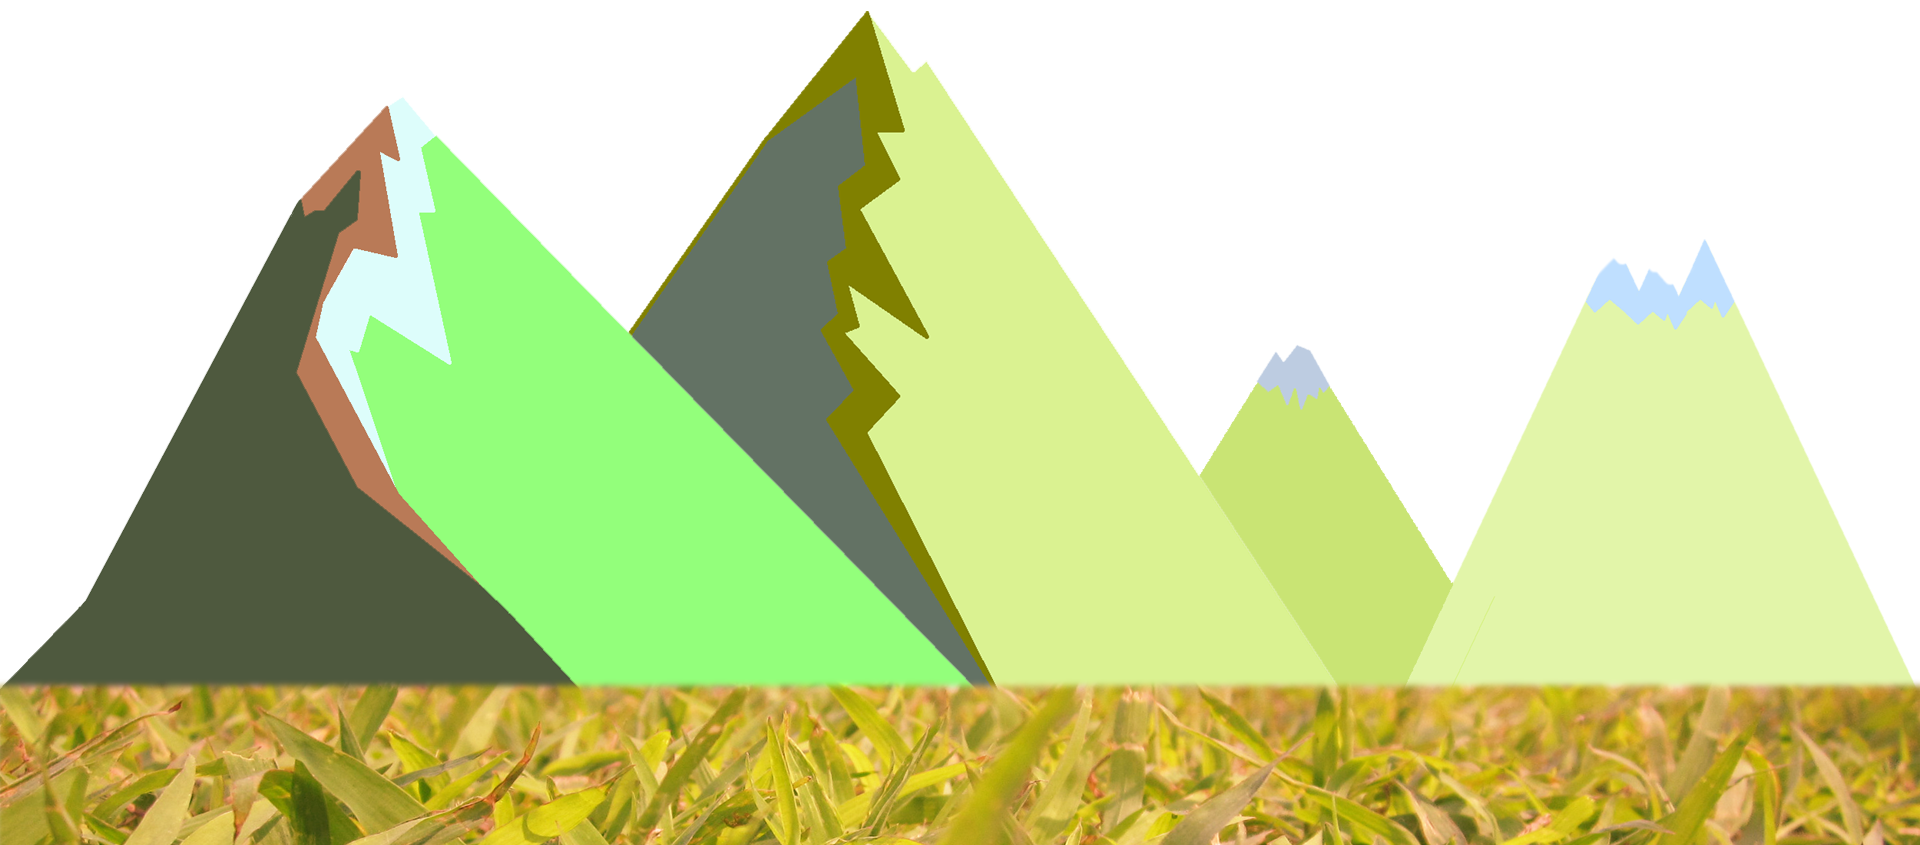
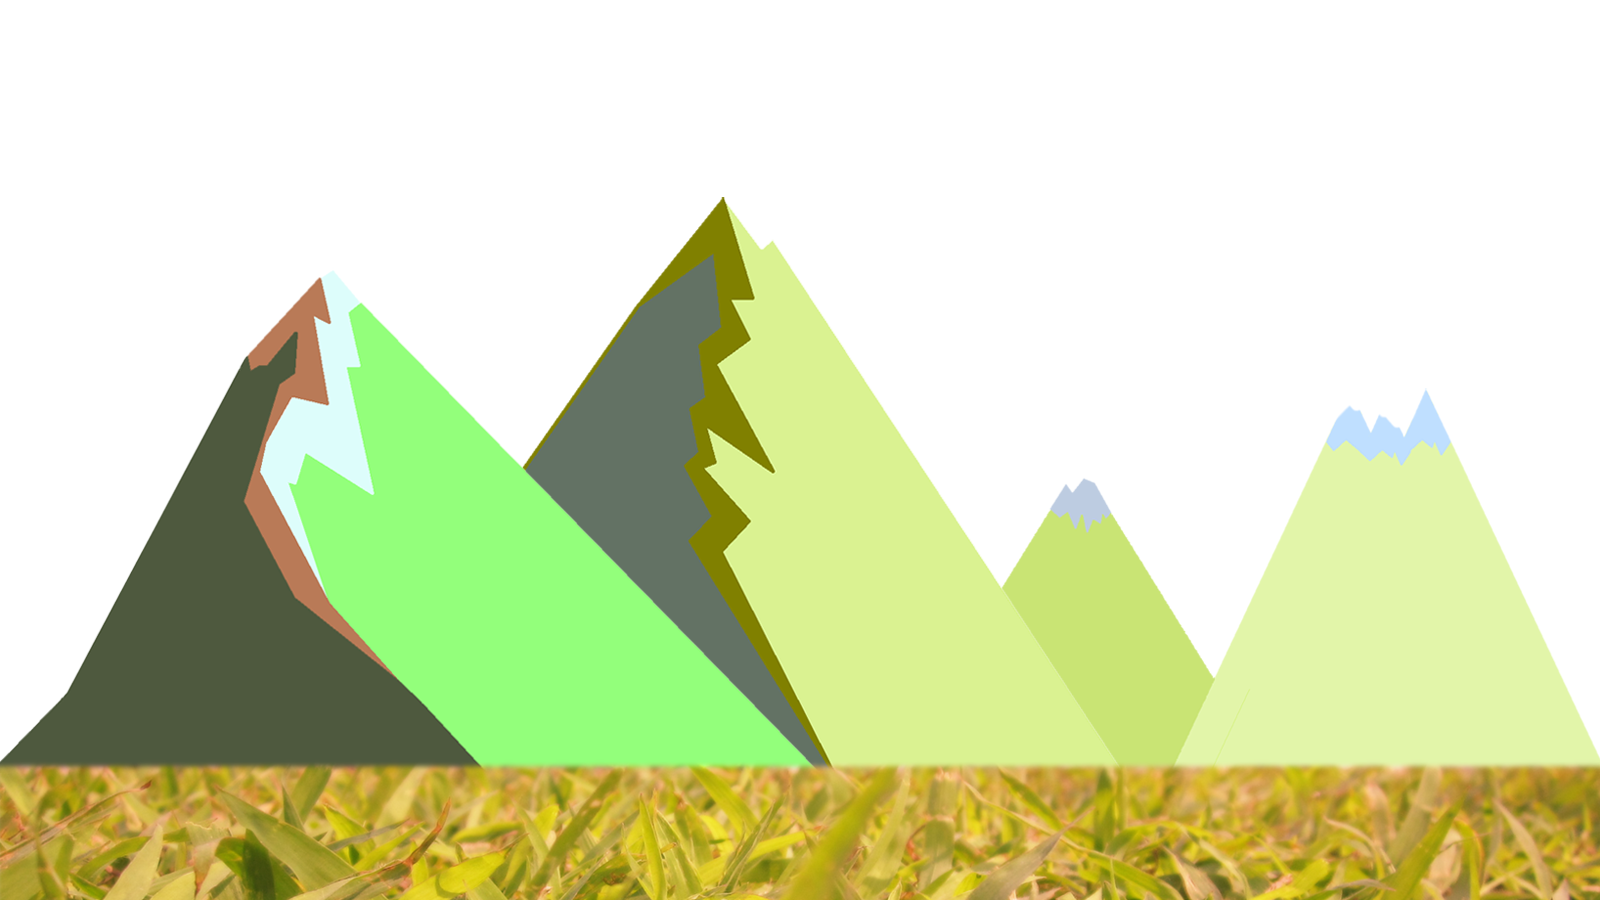
Game Intro + new resolution + tongue animation
Added gradient intro to game while the rest of the items load in the
background - Background is currently only rendered once at load.
Reduced resolution and improved background so it fits on screen better
Better handling of mouse clicks no matter where canvas and page scroll
are
Added tongue extension animation

diff --git a/ProtoKameo1/ProtoKameo1/player.js b/ProtoKameo1/ProtoKameo1/player.js
@@ -1,6 +1,13 @@
-
+// Artwork size constants
+var start_tongue_med_segment = 46; // Pixel where the middle part of the tongue starts in the image Minus the half of the picture pixels
+var tong_med_size = 34; // Size of the middle of the tongue that will be extended/repeated to extend tongue size
+var tongue_offset = { x: 193, y: 16 }; // Offset of tongue start position from player body
+var world_player_start_pos = { x: 250, y: 680 }; // Initial position of player in canvas
+var tongue_tilting_angle = 25; // This tilts the tongue to elevate the tip of the tongue to make it overlap the mouse
+var max_tongue_frames = 4;
+
 PlayerClass = EntityClass.extend({
-    pos: { x: 250, y: 800 },
+    pos: { x: world_player_start_pos.x, y: world_player_start_pos.y },
     walkSpeed: 20,
     zindex: 50,
     currSpriteName: null,
@@ -9,19 +16,17 @@ PlayerClass = EntityClass.extend({
     direction: true,
     move: false,
     tongue_frame: 0, // Number of frame drawn for the tongue
-    miss_in_da_face: false, // When fire position is incorrect, jsut slap the tongue in the head
+    miss_in_da_face: false, // When fire position is incorrect, just slap the tongue in the head
     tong_pos: { x: 0, y: 0 }, // Position of tongue start
     tong_fire_pos: { x: 0, y: 0 }, // Position of tongue end
-    tong_offset: { x: 475 - 235, y: 116 - 96 }, // Tongue start position offset
+    tong_offset: { x: tongue_offset.x, y: tongue_offset.y }, // Tongue start position offset from body
     tong_distance : 0,
     angle : 0,
     t_start : "kami-tongue-001.png",
     t_med : "kami-tongue-002.png",
     t_end : "kami-tongue-003.png",
-    // This is hooking into the Box2D Physics library
-    mpPhysBody: new BodyDef(),
+    mpPhysBody: new BodyDef(), // This is hooking into the Box2D Physics library
 
-    // can all be overloaded by child classes
     update: function () {
         gEngine.move_dir.x = 0;
         gEngine.move_dir.y = 0;
@@ -60,12 +65,12 @@ PlayerClass = EntityClass.extend({
         var tong_size_x = this.tong_fire_pos.x - this.tong_pos.x;
         var tong_size_y = this.tong_fire_pos.y - this.tong_pos.y;
         this.tong_distance = Math.sqrt((tong_size_x * tong_size_x) + (tong_size_y * tong_size_y));
-        var angle_tip_tongue_offset = Math.atan2(-40, this.tong_distance); // This tilts the tongue to elevate the tip of the tongue 40px to make it overlap the mouse
+        var angle_tip_tongue_offset = Math.atan2(-tongue_tilting_angle, this.tong_distance); // This tilts the tongue to elevate the tip of the tongue to make it overlap the mouse
         this.angle = -Math.atan2(-tong_size_y, tong_size_x) + angle_tip_tongue_offset;
         if (gInput.actions['fire-mouse']) { // launch the sound for the tongue and the animation
             gInput.actions['fire-mouse'] = false;
             this.tongue_frame = 1; // Activate tongue animation
-            if ((this.angle < -1.9078242687063418) || (this.angle > 0.29715340521870326) || this.tong_distance < 100) { // Behind, below or too close fire will slap in the face
+            if ((this.angle < -1.9078242687063418) || (this.angle > 0.065) || this.tong_distance < 100) { // Behind, below or too close fire will slap in the face
                 this.miss_in_da_face = true;
                 launchSlapSound();
             } else {
@@ -95,39 +100,38 @@ PlayerClass = EntityClass.extend({
                 this.move = false;
             }
             var real_spritename = this.spritename + this.frame + '.png';
-            //////console.log("Move is " + this.move + " " + real_spritename);
             drawSprite(real_spritename, this.pos.x, this.pos.y);
             if (this.miss_in_da_face && (this.tongue_frame != 0)) { // Draw slap in da face!
-                context.clearRect(this.pos.x + 154, this.pos.y - 32, 100, 78); // Clean up previous screen
-                context.clearRect(this.pos.x + 175, this.pos.y + 30, 100, 26); // Clean up previous screen
-                context.clearRect(this.pos.x + 140, this.pos.y - 120, 60, 60); // Clean up previous screen
-                drawSprite('kami-head-slap.png', this.pos.x + 204, this.pos.y - 32);
+                context.clearRect(this.pos.x + 123, this.pos.y - 25, 80, 62); // Clean up previous face
+                context.clearRect(this.pos.x + 140, this.pos.y + 24, 80, 20); // Clean up previous face
+                context.clearRect(this.pos.x + 112, this.pos.y - 96, 48, 48); // Clean up previous face
+                drawSprite('kami-head-slap.png', this.pos.x + 163, this.pos.y - 25);
             }
         }
         if (this.tongue_frame != 0) { // Draw tongue
             if (!this.miss_in_da_face) {
                 drawSprite(this.t_start, this.tong_pos.x, this.tong_pos.y, this.angle);
-                var start_med = 66;
-                var tong_med_size = 45;
                 var current_tong_pos_x = this.tong_pos.x;
                 var current_tong_pos_y = this.tong_pos.y;
-                var distance = this.tong_distance;
-                /////////////////////////////console.log("Distance " + distance);
-                while (distance - start_med > tong_med_size) { // Continue adding "middle tongue chunks" after tongue start until the tongue-end covers the rest of the distance until the mouse pos.
+                var distance = this.tong_distance / (max_tongue_frames - this.tongue_frame);
+                if (this.tong_distance < 200) { // Too short distance to display animation
+                    distance = this.tong_distance
+                }
+                while (distance - start_tongue_med_segment > tong_med_size) { // Continue adding "middle tongue chunks" after tongue start until the tongue-end covers the rest of the distance until the mouse pos.
                     drawSprite(this.t_med, current_tong_pos_x, current_tong_pos_y, this.angle);
                     distance -= tong_med_size;
                     current_tong_pos_x += Math.cos(this.angle) * tong_med_size;
                     current_tong_pos_y += Math.sin(this.angle) * tong_med_size;
                 }
-                current_tong_pos_x -= Math.cos(this.angle) * (tong_med_size * 2);// Put tip of the tongue over medium part
-                current_tong_pos_y -= Math.sin(this.angle) * (tong_med_size * 2);
-                current_tong_pos_x += Math.cos(this.angle) * (distance - start_med);// Extend tip of tongue progressively with mouse movement
-                current_tong_pos_y += Math.sin(this.angle) * (distance - start_med);
-                /////////////////////////////console.log("Distance leftover " + distance);
+                current_tong_pos_x -= Math.cos(this.angle) * (tong_med_size * 2.5);// Put tip of the tongue over medium part
+                current_tong_pos_y -= Math.sin(this.angle) * (tong_med_size * 2.5);
+                current_tong_pos_x += Math.cos(this.angle) * (distance - start_tongue_med_segment);// Extend tip of tongue progressively with mouse movement
+                current_tong_pos_y += Math.sin(this.angle) * (distance - start_tongue_med_segment);
                 drawSprite(this.t_end, current_tong_pos_x, current_tong_pos_y, this.angle);
-
+                this.tongue_frame = (this.tongue_frame + 1) % (max_tongue_frames); // Less than half second at current FPS (10)
+            } else {
+                this.tongue_frame = (this.tongue_frame + 1) % (max_tongue_frames + (max_tongue_frames/2)); // Less than half second at current FPS (10)
             }
-            this.tongue_frame = (this.tongue_frame + 1) % (4); // Less than half second at current FPS (10)
         }
     }
 });

diff --git a/ProtoKameo1/ProtoKameo1/core.js b/ProtoKameo1/ProtoKameo1/core.js
@@ -185,6 +185,18 @@ var xhrGet = function (reqUri, callback, object, type) {
     myRequest.send();
 };
 
+var findPos = function (obj) {
+    var curleft = 0, curtop = 0;
+    if (obj.offsetParent) {
+        do {
+            curleft += obj.offsetLeft;
+            curtop += obj.offsetTop;
+        } while (obj = obj.offsetParent);
+        return { x: curleft, y: curtop };
+    }
+    return undefined;
+};
+
 
 var setup = function () {
 
@@ -207,44 +219,38 @@ var setup = function () {
     entityPlayer.spritename = 'kami-walk-00';
     gEngine.gPlayer0.mpPhysBody.type = Body.b2_dynamicBody;
 
-    // Call setInterval to run at a framerate of 30 frames per second, calling the animate function each time.
+    // Call setInterval to run at a framerate of XX frames per second, calling the animate function each time.
     window.setInterval(animate, 1000 / FPS);
-    /////////////////window.setTimeout(loadBackground, 2000)
+
+    background_image = new Image();
+    background_image.src = 'mountains.png';
+    background_image.onload = function () {
+        drawBackground(); // Static background painted only once
+        //window.setInterval(drawBackground, 1000 / FPS); // Dynamic background
+    }
 };
 
 var drawBackground = function () {
-    /*var sprite = 'kami-walk-001.png';
-    var posX = 250;
-    var posY = 400;
-    //background_context.clearRect(0, 0, bcanvas.width, bcanvas.height); // First clean up screen
-    for (var sheetName in gSpriteSheets) {
-
-        // Use the getStats method of the spritesheet to find if a sprite with name 'spritename' exists in that sheet...
-        var sheet = gSpriteSheets[sheetName];
-        var sprite = sheet.getStats(sprite);
-
-        // If we find the appropriate sprite, call '__drawSpriteInternal' with parameters as described below. Otherwise, continue with the loop...
-        if (sprite === null) {
-            continue;
-        }
-
-        background_context.drawImage(sheet.img, sprite.x, sprite.y, sprite.w, sprite.h, posX + 250, posY + 116, sprite.w, sprite.h);
-        // We assume there isn't another sprite of the given 'spritename' that we want to draw, so we return!
-        return;
-    }*/
-
-    //background_context.clearRect(0, 0, background_canvas.width, background_canvas.height);
-    var img = new Image();
-    img.src = 'mountains.png';
-    img.onload = function () {
-        background_context.drawImage(img, 0, 0, background_canvas.width, background_canvas.height);
-    }
+    background_context.clearRect(0, 0, background_canvas.width, background_canvas.height);
+    background_context.drawImage(background_image, 0, 0, background_canvas.width, background_canvas.height);
 }
 
 var animate = function () {
     gEngine.update();
     gEngine.draw();
-    drawBackground();
+    
+    if (introFrame < introSeconds * FPS) {
+        // Create Intro radial gradient
+        var grd = context.createRadialGradient(800, 450, 10, 800, 450, 2000);
+
+        var grd = context.createRadialGradient(800, 450, 10 + (introFrame / introSeconds), 800, 450, 4000 - (introFrame * introFrame)); // Shrinking radius 
+        var opacity = 1.05 - (introFrame / (introSeconds * FPS)); // Disolve slowly
+        grd.addColorStop(1, 'transparent');
+        grd.addColorStop(0, 'rgba(250,250,120,' + opacity + ')');
+        context.fillStyle = grd;
+        context.fillRect(0, 0, canvas.width, canvas.height);
+        introFrame++;
+    }
 };
 
 var Vec2 = Box2D.Common.Math.b2Vec2;
@@ -263,4 +269,7 @@ var canvas = null;
 var context = null;
 var background_canvas = null;
 var background_context = null;
-var FPS = 10;
+var background_image = null;
+var FPS = 13;
+var introFrame = 0;
+var introSeconds = 4;

diff --git a/ProtoKameo1/ProtoKameo1/default.htm b/ProtoKameo1/ProtoKameo1/default.htm
@@ -26,11 +26,13 @@
     </script>
 </head>
 <body onkeypress="stopDefAction(event);">
-    <canvas id="CanvasPlayground" width="1920" height="1080" style="position: absolute; left: 0; top: 0; z-index: 1;" tabindex="1">
-        Canvas tag not supported
-	</canvas>
-    <canvas id="background" width="1920" height="1080" style="position: absolute; left: 0; top: 0; z-index: 0;">
-        Canvas tag not supported
-    </canvas>
+    <div class="canvas_position">
+        <canvas id="CanvasPlayground" width="1600" height="900" style="position: absolute; z-index: 1;" tabindex="1">
+            Canvas tag not supported
+	    </canvas>
+        <canvas id="background" width="1600" height="900" style="position: absolute; z-index: 0;">
+            Canvas tag not supported
+        </canvas>
+    </div>
 </body>
 </html>

diff --git a/ProtoKameo1/ProtoKameo1/input.js b/ProtoKameo1/ProtoKameo1/input.js
@@ -35,6 +35,9 @@ InputClass = Class.extend({
     onMouseMove: function (event) { // Get coordinates avoiding webpage scrolling offsets
         gInput.mouse.x = event.clientX + (document.documentElement.scrollLeft ? document.documentElement.scrollLeft : document.body.scrollLeft);
         gInput.mouse.y = event.clientY + (document.documentElement.scrollTop ? document.documentElement.scrollTop : document.body.scrollTop);
+        var pos = findPos(canvas); // Get canvas current position
+        gInput.mouse.x -= pos.x;
+        gInput.mouse.y -= pos.y;
     },
 
     //-----------------------------

diff --git a/ProtoKameo1/ProtoKameo1/app.css b/ProtoKameo1/ProtoKameo1/app.css
@@ -6,3 +6,9 @@
 span {
     font-style: italic
 }
+
+.canvas_position {
+    width: 1600px;
+    height:900px;
+    margin: 0px auto;
+}
